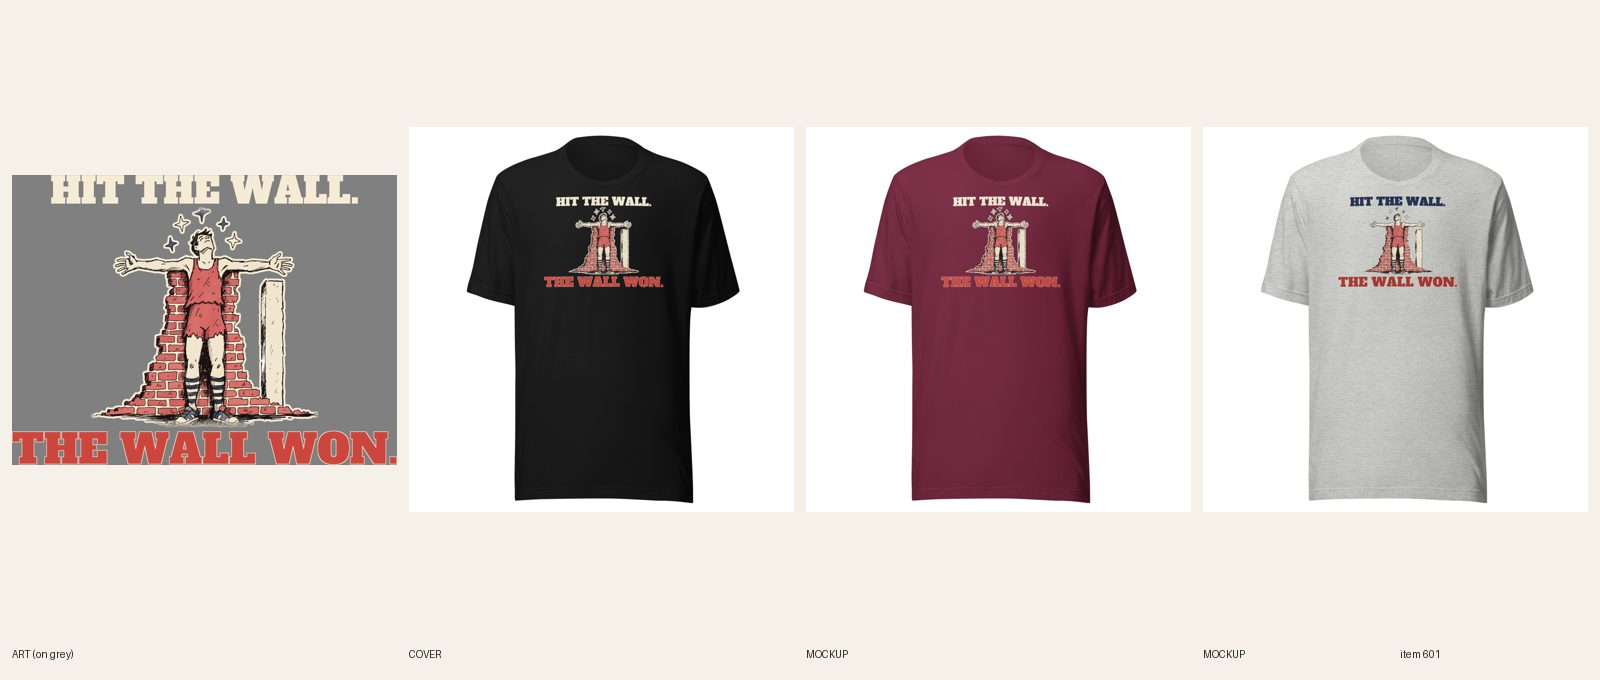
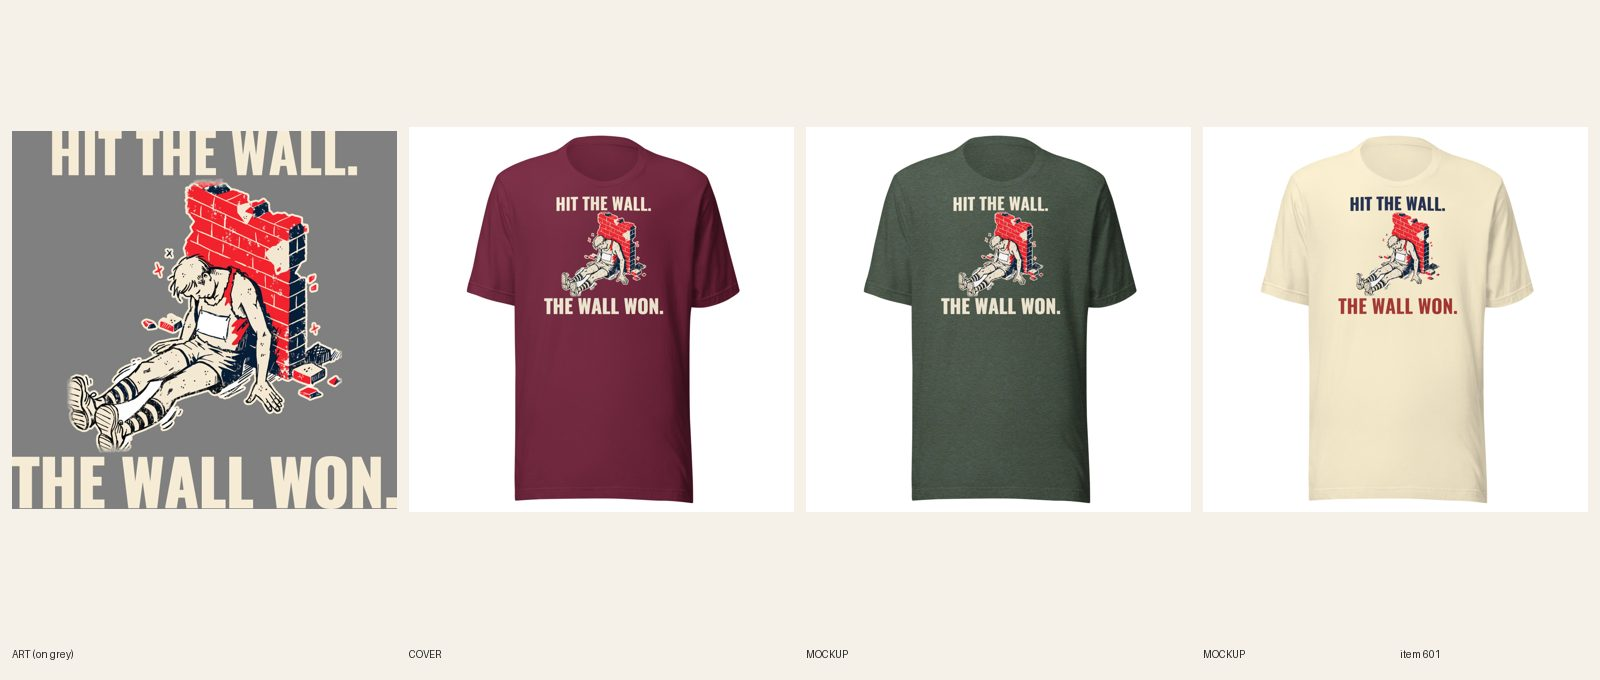
[B] review 601 marathon tee redo 2

diff --git a/docs/intake-log.md b/docs/intake-log.md
@@ -1,4 +1,5 @@
 RUNNING director since 2026-10-21 15:24 UTC
+2026-10-21 16:10 UTC — [B] REVIEW #601 Men's Marathon Hit the Wall. The Wall Won. Tee (REDO 2: slumped runner with race bib, cream punch on dark, 35 on 1091200292 + 21 on 1091200297, punch 126%). fal $0.04.
 2026-10-21 15:40 UTC — [B] REVIEW #594 Possum Eats Ticks. Screams Anyway. Tee (REDO 3: dark-file punch cream with red keyline, 28 on 1091193352 + 21 on 1091005305, punch 144%). fal $0.
 2026-10-21 16:00 UTC — [D] Director run: inbox nothing new (still waiting on Sam for 'yes cap/keep cap', the #457/#458 Hanukkah line and a fal top-up). 6 LIVE (the cap, held order): #892 Pay to Sunburn and #863 Mostly Untangling zip redos (already ACTIVE), #896 Lift Heavy, #897 Oops Anyway, #898 Backhand, #899 Plot Twist zip twins (set ACTIVE + Online Store, Headless, Google & YouTube); audit --handle PASS for all 6 (1 warn each on the twins: flat cover). #959/#960 colorway backfills LIVE on 4 live zips (no new product). Reviewed 26 sheets + 1 article: approved and held 18 (#851 Essentials Oatmeal round 2; camo twins #900 #901 #902; camo sweatshirt redos #874 #878 #884; zip twins #931-#939). REDO 7: #852-#855 Essentials (R6.3 Unisex title with a one-person cover; R6.1 no stock-model mockup), #875 and #883 camo sweatshirts (R5.3.2 single long lines need a squint; stack on two lines, lockup to about 1800 px), article #940 duck-hunter gifts (describes the old camo art; id clashes with zip twin #940). Director fixes: moved the flat front to image 1 on all 5 Essentials (R6.13); removed merge-conflict markers from docs/pipeline/768 (came in with lane E's 14:48 commit; status LIVE kept). Recurring (5th unisex one-person cover in two runs): builder card 7u added. Briefs ($0 fal except camo redraws): lane B 8 camo twins #962-#969 (Tag Soup, Saw a Squirrel, Catch and Release, Mostly Untangling, Out-Fished Him, Switchbacks, Bad Weather, I Brought You a Sock; keyword-gap.py found no measured '<theme> camo hoodie' volume, R11.12 waiver; registry 1122-1130); lane E 6 colorway backfills #970-#975 on the 12 LIVE zips not yet backfilled. READY: A 12, B 12, C 12, E 12. Held at REVIEW next, in order: #871 #886 #893 #894 #895 #904 #907 #908 #913, then #905 #906 #909 #911 #912 #915 #917-#923 #836, then #840 #866 #876 #877 #880 #881 #916 #924-#926 #827, then this run's 18, then the tee redos. No Telegram (midday digest sent 13:05; nothing new needs Sam). Lock released.
 RUNNING lane E since 2026-10-21 14:48 UTC

diff --git a/docs/pipeline/601-marathon-tee-hit-the-wall-the-wall-won.md b/docs/pipeline/601-marathon-tee-hit-the-wall-the-wall-won.md
@@ -1,4 +1,4 @@
-status: REDO
+status: REVIEW
 lane: B
 type: new
 id: 601
@@ -32,3 +32,4 @@ kd: 34
   1. R5.3.4 'would someone in the niche wince': arms flung straight out against a wall read as a crucifixion pose at phone size. Redraw him slumped against or sliding down the broken wall (one art call), with a race bib pinned on the singlet so the marathon reads without the words (niche cue test).
   2. R5.3.8: red THE WALL WON. nearly vanishes on Maroon; drop Maroon or give it a cream punch file.
 - 2026-10-21 08:32 UTC [B]: REDO NOT DONE, blocked: the pose fix needs one new Recraft art call (slumped runner with a race bib) and the fal wallet is exhausted (403 'Exhausted balance', owner notified by push notification). The Maroon part alone (a cream-punch file) is held so the whole redo ships once the wallet is topped up. Status stays REDO.
+- 2026-10-21 16:10 UTC [B]: REDO 2 done (fal back: one Recraft call $0.04, try 1 kept). 07:35 note 1: new art, the runner is now SLUMPED sitting at the foot of the crumbling brick wall, head drooping, legs out, stars and loose bricks, a RACE BIB pinned on the singlet (niche cue test: reads as a marathon runner without the words; no crucifixion pose, viewed). Prepared with prep-seal.py (3000 px, threshold 200). Note 2 (R5.3.8): the dark file's THE WALL WON. is now CREAM (246,236,214) with the cream keyline instead of red, so Maroon (and Heather Forest) read; the light file keeps navy HIT THE WALL. and brick red THE WALL WON. 7r: face Oswald (not the last five lane B faces: Fraunces 594, Anton, Bowlby, Alfa, Bevan). Lockup designs/tee2.py (FONT=oswald PUNCH_D=246,236,214 MINAREA=1500). 7h: headline 2661 / punch 3360 px (126%). 7k: type 848 of 3301 px = 26% (print 3360 x 3301). 7l: subject 2400 of 3360 px = 71%. FW 1650 TOP 75. Light file logged: Natural, Ash, Athletic Heather on 1091200297, headline fill navy (no cream fill). R7.7: 56/56 synced: dark file 1091200292 on Black, Navy, Dark Grey Heather, Maroon, Heather Forest (35), light file 1091200297 on 21, back logo 1080398177 on 56. All eight mockups remade and replaced in place (alts kept); phone-size read OK on every color incl. Maroon and Heather Forest. Copy rewritten against the new art (slumped, bib, loose bricks, cream or navy+brick-red lettering; no arms spread, no mile-marker post). Title and handle unchanged (same line). Audit only 'not visible' (still DRAFT). docs/review/601.jpg (Maroon, Heather Forest, Natural).
